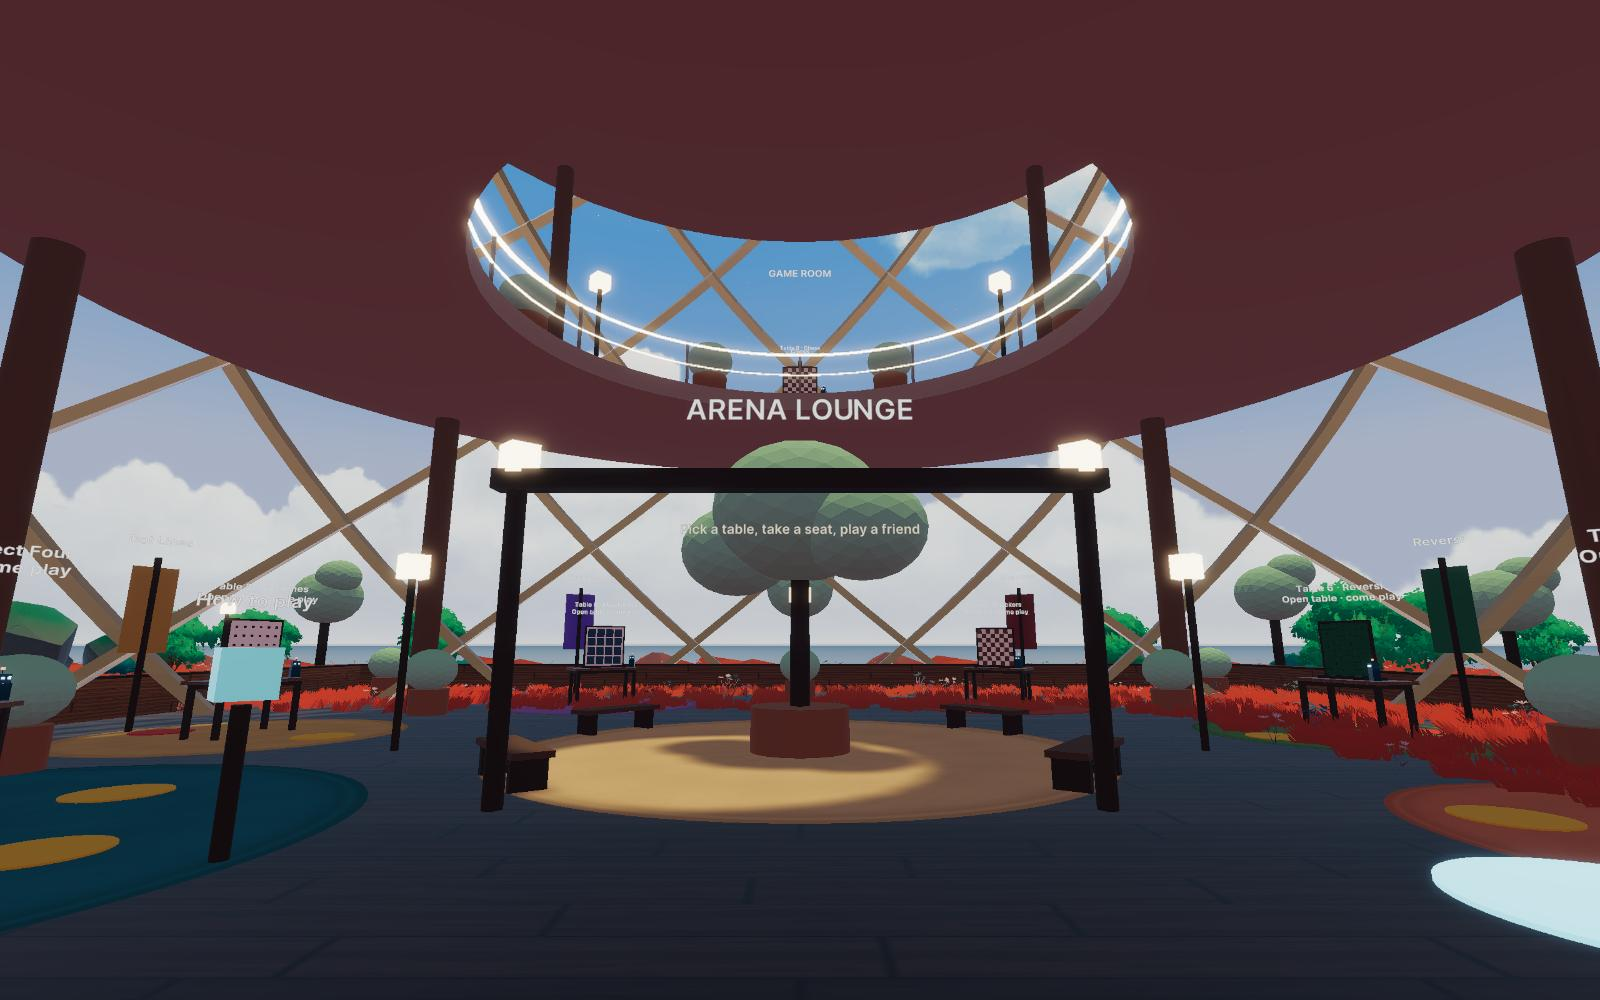
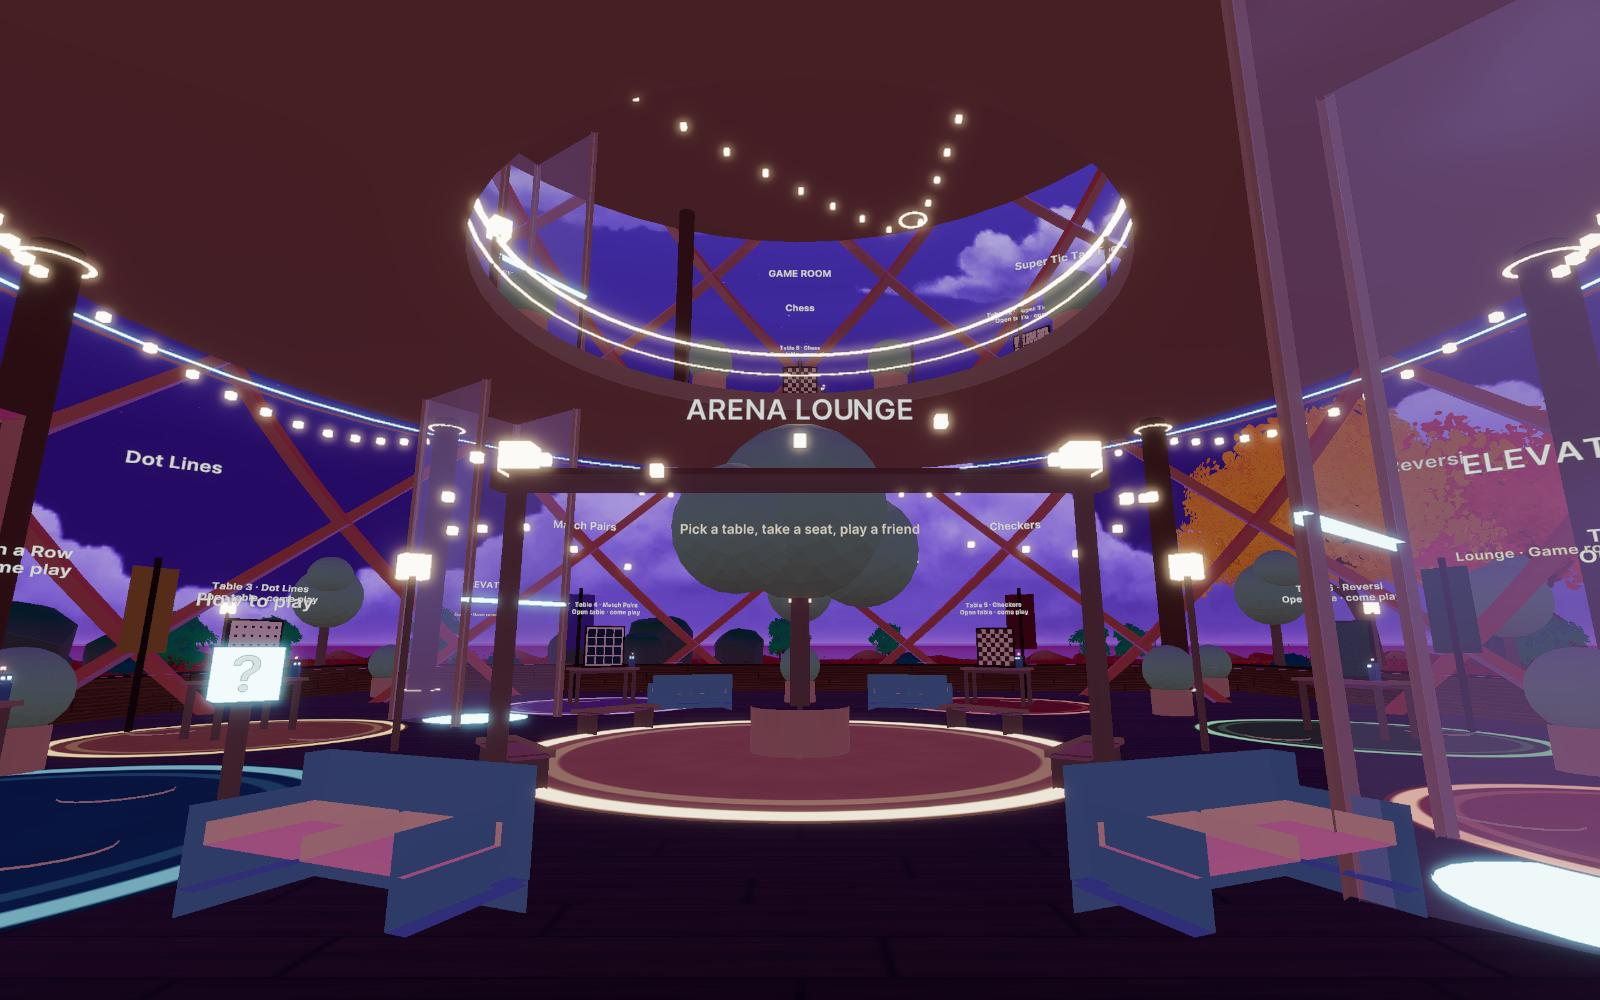
Arena Lounge page: four floors, fourteen games, night screenshots

diff --git a/arena-lounge/index.html b/arena-lounge/index.html
@@ -4,7 +4,7 @@
 <meta charset="utf-8">
 <meta name="viewport" content="width=device-width, initial-scale=1">
 <title>Arena Lounge</title>
-<meta name="description" content="A game lounge for Decentraland, built for phones: eight games at shared tables under a twisted tower, a house bot, no downloads.">
+<meta name="description" content="A game lounge for Decentraland, built for phones: fourteen games at shared tables on four floors of a twisted, lit tower, a house bot, no downloads.">
 <meta property="og:title" content="Arena Lounge">
 <meta property="og:description" content="Walk in, take a seat, play a friend. A mobile-first social game lounge for Decentraland.">
 <meta property="og:image" content="screenshots/tower-overview.jpg">
@@ -150,8 +150,8 @@
       <p class="kicker"><span data-lang="en">Decentraland · built for phones</span><span data-lang="de">Decentraland · gebaut fürs Handy</span></p>
       <h1 data-lang="en">Walk in, take a seat, <em>play a friend</em>.</h1>
       <h1 data-lang="de">Reinkommen, hinsetzen, <em>eine Runde spielen</em>.</h1>
-      <p class="lede" data-lang="en">A game lounge in Decentraland under a twisted tower. Nine shared tables, eight games from Connect Four to Chess, a game room and a rooftop up the elevator, a house bot for when the room is empty. Everything runs on a phone and loads in seconds.</p>
-      <p class="lede" data-lang="de">Eine Spiel-Lounge in Decentraland unter einem verdrehten Turm. Neun gemeinsame Tische, acht Spiele von Vier gewinnt bis Schach, ein Spielzimmer und eine Dachterrasse per Aufzug, ein Bot fürs Warmhalten, wenn gerade niemand da ist. Läuft auf dem Handy und lädt in Sekunden.</p>
+      <p class="lede" data-lang="en">A game lounge in Decentraland inside a twisted tower, lit for the evening. Fifteen shared tables on four floors, fourteen games from Four in a Row to Chess and Backgammon, a house bot for when the room is empty, colours dealt at random every round. Everything runs on a phone and loads in seconds.</p>
+      <p class="lede" data-lang="de">Eine Spiel-Lounge in Decentraland in einem verdrehten, abends beleuchteten Turm. Fünfzehn gemeinsame Tische auf vier Etagen, vierzehn Spiele von Vier in einer Reihe bis Schach und Backgammon, ein Bot fürs Warmhalten, wenn gerade niemand da ist, die Farben werden jede Runde ausgelost. Läuft auf dem Handy und lädt in Sekunden.</p>
       <div class="actions">
         <a class="btn" id="play" href="decentraland://?realm=arenalounge.dcl.eth"><span data-lang="en">Open in Decentraland</span><span data-lang="de">In Decentraland öffnen</span></a>
         <a class="btn alt" href="https://github.com/ArsalanRC/arena-lounge"><span data-lang="en">Source on GitHub (opens Sept 2026)</span><span data-lang="de">Code auf GitHub (ab Sept. 2026)</span></a>
@@ -171,13 +171,13 @@
     <div class="cards">
       <article class="card">
         <h3><span data-lang="en">The screen is the controller</span><span data-lang="de">Der Bildschirm ist der Controller</span></h3>
-        <p data-lang="en">On a phone, tapping a 3D object means aiming a crosshair first. Here you tap a bar at the bottom of the screen: seven drop buttons for Connect Four, finger-sized boards for Chess, Checkers, Reversi and Dot Lines, a ring of teeth for Croc Snap. The 3D table is the shared show.</p>
-        <p data-lang="de">Auf dem Handy heißt "3D-Objekt antippen" erst mal zielen. Hier tippst du auf eine Leiste am unteren Rand: sieben Wurf-Buttons bei Vier gewinnt, fingergroße Bretter bei Schach, Dame, Reversi und Käsekästchen, ein Zahnkranz bei Croc Snap. Der 3D-Tisch ist die gemeinsame Bühne.</p>
+        <p data-lang="en">On a phone, tapping a 3D object means aiming a crosshair first. Here you tap a bar at the bottom of the screen: seven drop buttons for Four in a Row, finger-sized boards for Chess, Checkers, Reversi and Dot Lines, a ring of teeth for Croc Snap, dice and a score sheet for the Dice Royale duel. The 3D table is the shared show.</p>
+        <p data-lang="de">Auf dem Handy heißt "3D-Objekt antippen" erst mal zielen. Hier tippst du auf eine Leiste am unteren Rand: sieben Wurf-Buttons bei Vier in einer Reihe, fingergroße Bretter bei Schach, Dame, Reversi und Käsekästchen, ein Zahnkranz bei Croc Snap, Würfel und Zettel beim Dice-Royale-Duell. Der 3D-Tisch ist die gemeinsame Bühne.</p>
       </article>
       <article class="card">
         <h3><span data-lang="en">One tap to sit</span><span data-lang="de">Ein Tipp zum Hinsetzen</span></h3>
-        <p data-lang="en">Near a table a card offers "Sit as Yellow", "Sit as Red" or "Play the house bot". Sitting snaps you onto the seat, facing the board, in first person. "Stand up" is always one tap away. Step onto an elevator pad and a panel takes you to the game room or the rooftop, no stairs.</p>
-        <p data-lang="de">In Tischnähe bietet eine Karte "Sit as Yellow", "Sit as Red" oder "Play the house bot" an. Beim Hinsetzen stellst du dich automatisch an den Platz, Blick aufs Brett, in der Ego-Perspektive. "Stand up" ist immer einen Tipp entfernt. Ein Schritt auf die Aufzugsplatte, und ein Panel bringt dich ins Spielzimmer oder aufs Dach, ganz ohne Treppe.</p>
+        <p data-lang="en">Near a table a card offers "Take a seat" or "Play the house bot"; colours are dealt at random every round, so nobody picks White by choosing a chair. Sitting snaps you onto the seat, facing the board, in first person. "Stand up" is always one tap away. Step into a glass elevator and a panel takes you to the game room, the sky room or the rooftop, no stairs.</p>
+        <p data-lang="de">In Tischnähe bietet eine Karte "Platz nehmen" oder "Gegen den Bot spielen" an; die Farben werden jede Runde ausgelost, niemand sichert sich Weiß über den Stuhl. Beim Hinsetzen stellst du dich automatisch an den Platz, Blick aufs Brett, in der Ego-Perspektive. "Aufstehen" ist immer einen Tipp entfernt. Ein Schritt in den Glasaufzug, und ein Panel bringt dich ins Spielzimmer, ins Himmelszimmer oder aufs Dach, ganz ohne Treppe.</p>
       </article>
       <article class="card">
         <h3><span data-lang="en">Shared tables, really shared</span><span data-lang="de">Gemeinsame Tische, wirklich gemeinsam</span></h3>
@@ -186,8 +186,8 @@
       </article>
       <article class="card">
         <h3><span data-lang="en">Nothing to download</span><span data-lang="de">Nichts zum Herunterladen</span></h3>
-        <p data-lang="en">Every model is a primitive except the tower and the leaf balls, two small GLBs written by a Python script; every texture is a small procedural image, every sound a synthesised WAV. About 880 entities and 53k triangles for a 3x3 World: it loads on 4G before you have found the joystick.</p>
-        <p data-lang="de">Jedes Modell ist ein Primitiv, außer dem Turm und den Baumkronen, zwei kleinen GLBs aus einem Python-Skript; jede Textur ein kleines, generiertes Bild, jeder Ton eine synthetisierte WAV. Rund 880 Entities und 53k Dreiecke für eine 3x3-World: lädt über 4G, bevor du den Joystick gefunden hast.</p>
+        <p data-lang="en">The tower, the facade and every prop are small GLBs written by a Python script; every texture is a small procedural image, every sound a synthesised WAV. Game pieces exist only while a round runs, so an idle World is about 500 entities on a 3x3 lot: it loads on 4G before you have found the joystick.</p>
+        <p data-lang="de">Turm, Fassade und alle Möbel sind kleine GLBs aus einem Python-Skript; jede Textur ein kleines, generiertes Bild, jeder Ton eine synthetisierte WAV. Spielsteine existieren nur, solange eine Runde läuft, eine leere World hat rund 500 Entities auf 3x3 Parzellen: lädt über 4G, bevor du den Joystick gefunden hast.</p>
       </article>
     </div>
   </section>
@@ -196,8 +196,8 @@
     <h2 data-lang="en">A look inside</h2>
     <h2 data-lang="de">Ein Blick hinein</h2>
     <div class="shots">
-      <figure><img src="screenshots/tower-overview.jpg" alt="The tower: a woven lattice over the lounge with the game room and the rooftop terrace" loading="lazy"><figcaption><span data-lang="en">The tower over the lounge: a woven lattice, the game room, the rooftop terrace.</span><span data-lang="de">Der Turm über der Lounge: ein geflochtenes Gitter, das Spielzimmer, die Dachterrasse.</span></figcaption></figure>
-      <figure><img src="screenshots/lounge.jpg" alt="Arrival: the gateway, the plaza tree, the corners and the game room above" loading="lazy"><figcaption><span data-lang="en">Arrival. The gateway, the plaza tree, six corners, and the game room overhead.</span><span data-lang="de">Ankunft. Das Tor, der Baum auf dem Platz, sechs Ecken und darüber das Spielzimmer.</span></figcaption></figure>
+      <figure><img src="screenshots/tower-overview.jpg" alt="The tower at night: a woven lattice with beacon lights, glowing rims and rug rings, four floors" loading="lazy"><figcaption><span data-lang="en">The tower at night: beacons on every rib crossing, glowing rims, four floors of games.</span><span data-lang="de">Der Turm bei Nacht: Lichter an jeder Kreuzung der Rippen, leuchtende Kanten, vier Etagen voller Spiele.</span></figcaption></figure>
+      <figure><img src="screenshots/lounge.jpg" alt="Arrival at night: string lights, the plaza tree, the corners and the game room above" loading="lazy"><figcaption><span data-lang="en">Arrival. String lights, the plaza tree, six glowing corners, and the game room overhead.</span><span data-lang="de">Ankunft. Lichterketten, der Baum auf dem Platz, sechs leuchtende Ecken und darüber das Spielzimmer.</span></figcaption></figure>
       <figure><img src="screenshots/connect-four.jpg" alt="Seated at Connect Four in first person, controller docked to the right" loading="lazy"><figcaption><span data-lang="en">Seated at Connect Four. The frame is see-through, like the real toy.</span><span data-lang="de">Am Vier-gewinnt-Tisch. Der Rahmen ist durchsichtig, wie beim echten Spiel.</span></figcaption></figure>
       <figure><img src="screenshots/how-to-play.jpg" alt="How to play panel with the language picker" loading="lazy"><figcaption><span data-lang="en">How to play, in 19 languages, from the info kiosk or the "?" button.</span><span data-lang="de">Spielregeln in 19 Sprachen, am Infoständer oder über den "?"-Button.</span></figcaption></figure>
     </div>
@@ -221,8 +221,8 @@
       <ul>
         <li data-lang="en">Decentraland SDK7, TypeScript, React-ECS UI. No server: tables are CRDT-synced components, one per table, with a strict rule for who may write what.</li>
         <li data-lang="de">Decentraland SDK7, TypeScript, React-ECS-UI. Kein Server: Tische sind CRDT-synchronisierte Komponenten, eine pro Tisch, mit klarer Regel, wer was schreiben darf.</li>
-        <li data-lang="en">Games are plugins: pure engines from Game Arena (eight games, 285 unit tests) plus a 3D view and a touch controller each. The chess bot searches under a time budget so a slow phone never freezes.</li>
-        <li data-lang="de">Spiele sind Plugins: pure Engines aus Game Arena (acht Spiele, 285 Unit-Tests) plus je eine 3D-Ansicht und einen Touch-Controller. Der Schach-Bot rechnet mit Zeitbudget, damit ein langsames Handy nie einfriert.</li>
+        <li data-lang="en">Games are plugins: pure engines from Game Arena (fourteen games, 561 unit tests) plus a 3D view and a touch controller each. The chess bot searches under a time budget so a slow phone never freezes.</li>
+        <li data-lang="de">Spiele sind Plugins: pure Engines aus Game Arena (vierzehn Spiele, 561 Unit-Tests) plus je eine 3D-Ansicht und einen Touch-Controller. Der Schach-Bot rechnet mit Zeitbudget, damit ein langsames Handy nie einfriert.</li>
       </ul>
       <ul>
         <li data-lang="en">The house bot (minimax) is driven by the human sharing the table, so nobody needs a server to keep a table warm.</li>

diff --git a/app.js b/app.js
@@ -66,7 +66,7 @@ const STRINGS = {
     "work.hover": "hover to scroll",
     "work.private": "private repository",
     "work.lounge":
-      "A game lounge inside Decentraland, designed for the phone first. Nine shared tables under a twisted tower, eight games from my Game Arena engines, a game room and a rooftop up the elevator, a house bot for empty rooms, and no server: every table is a synced component with a strict rule for who may write to it. Sitting down is one tap, the board is the shared show, the screen is the controller. The page shows it; playing needs the free Decentraland app.",
+      "A game lounge inside Decentraland, designed for the phone first. Fifteen shared tables on four floors of a twisted, lit tower, fourteen games from my Game Arena engines, a house bot for empty rooms, and no server: every table is a synced component with a strict rule for who may write to it. Sitting down is one tap, the board is the shared show, the screen is the controller. The page shows it; playing needs the free Decentraland app.",
     "work.plinth":
       "Mint a token, put it up for sale, buy somebody else's. The art is drawn by the contract itself, so there is no IPFS hash to go dead and nothing to keep paying for. The page talks to Polygon with no wallet library at all, and runs on invented data until you connect one, because most people will not install an extension to look at a portfolio piece.",
     "work.rally":
@@ -164,7 +164,7 @@ const STRINGS = {
     "work.hover": "zum Scrollen hovern",
     "work.private": "privates Repository",
     "work.lounge":
-      "Eine Spiel-Lounge in Decentraland, zuerst fürs Handy gedacht. Neun gemeinsame Tische unter einem verdrehten Turm, acht Spiele aus meinen Game-Arena-Engines, ein Spielzimmer und eine Dachterrasse per Aufzug, ein Bot für leere Räume, und kein Server: Jeder Tisch ist eine synchronisierte Komponente mit klarer Regel, wer sie beschreiben darf. Hinsetzen ist ein Tipp, das Brett ist die gemeinsame Bühne, der Bildschirm der Controller. Die Seite zeigt es; spielen geht mit der kostenlosen Decentraland-App.",
+      "Eine Spiel-Lounge in Decentraland, zuerst fürs Handy gedacht. Fünfzehn gemeinsame Tische auf vier Etagen eines verdrehten, beleuchteten Turms, vierzehn Spiele aus meinen Game-Arena-Engines, ein Bot für leere Räume, und kein Server: Jeder Tisch ist eine synchronisierte Komponente mit klarer Regel, wer sie beschreiben darf. Hinsetzen ist ein Tipp, das Brett ist die gemeinsame Bühne, der Bildschirm der Controller. Die Seite zeigt es; spielen geht mit der kostenlosen Decentraland-App.",
     "work.plinth":
       "Token minten, zum Verkauf stellen, den von jemand anderem kaufen. Die Grafik zeichnet der Vertrag selbst, also gibt es keinen IPFS-Hash, der stirbt, und nichts, wofür jemand dauerhaft zahlen muss. Die Seite redet ohne jede Wallet-Library mit Polygon und läuft auf erfundenen Daten, bis du eine verbindest. Kaum jemand installiert eine Extension, nur um sich ein Portfolio anzusehen.",
     "work.rally":
